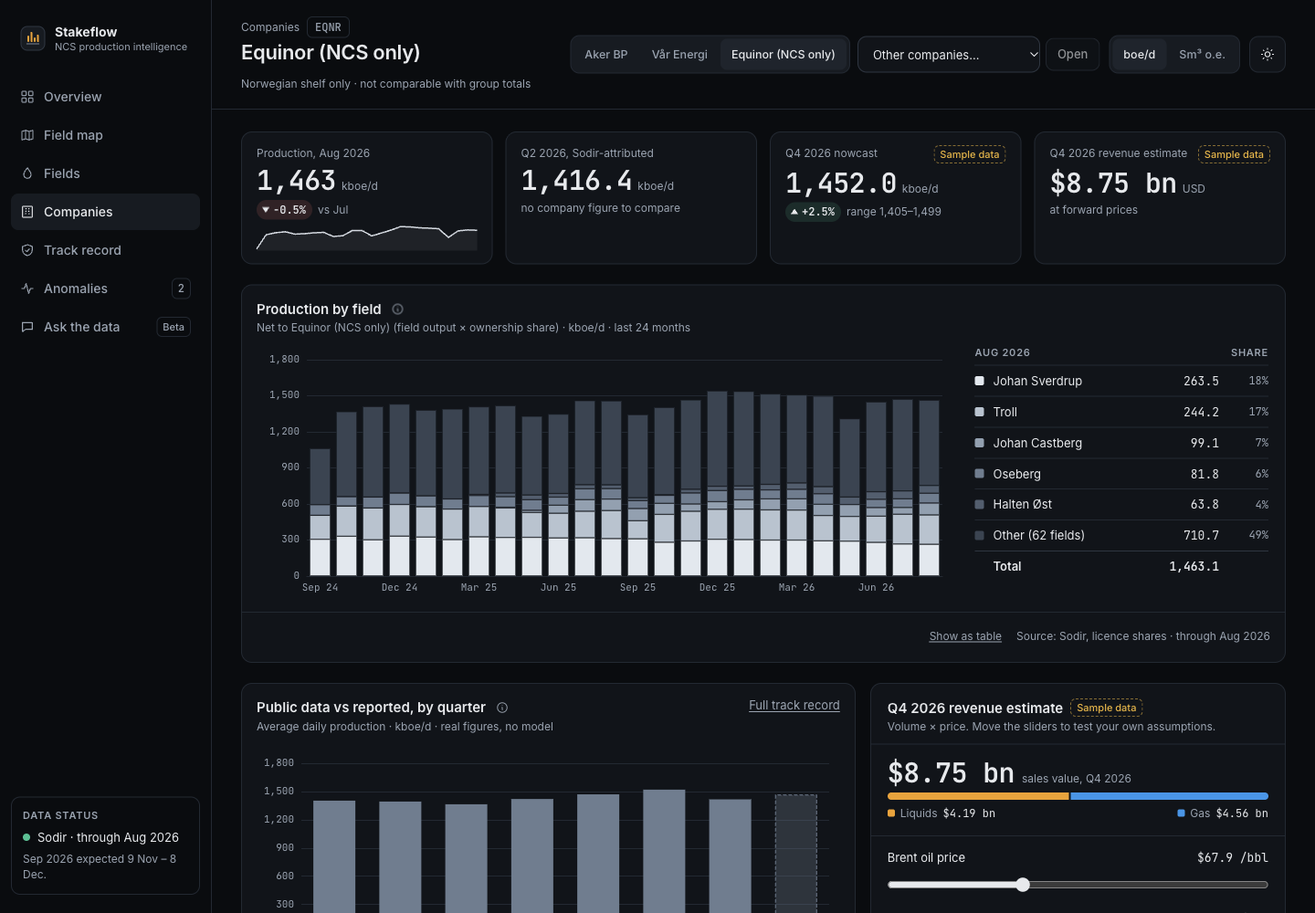
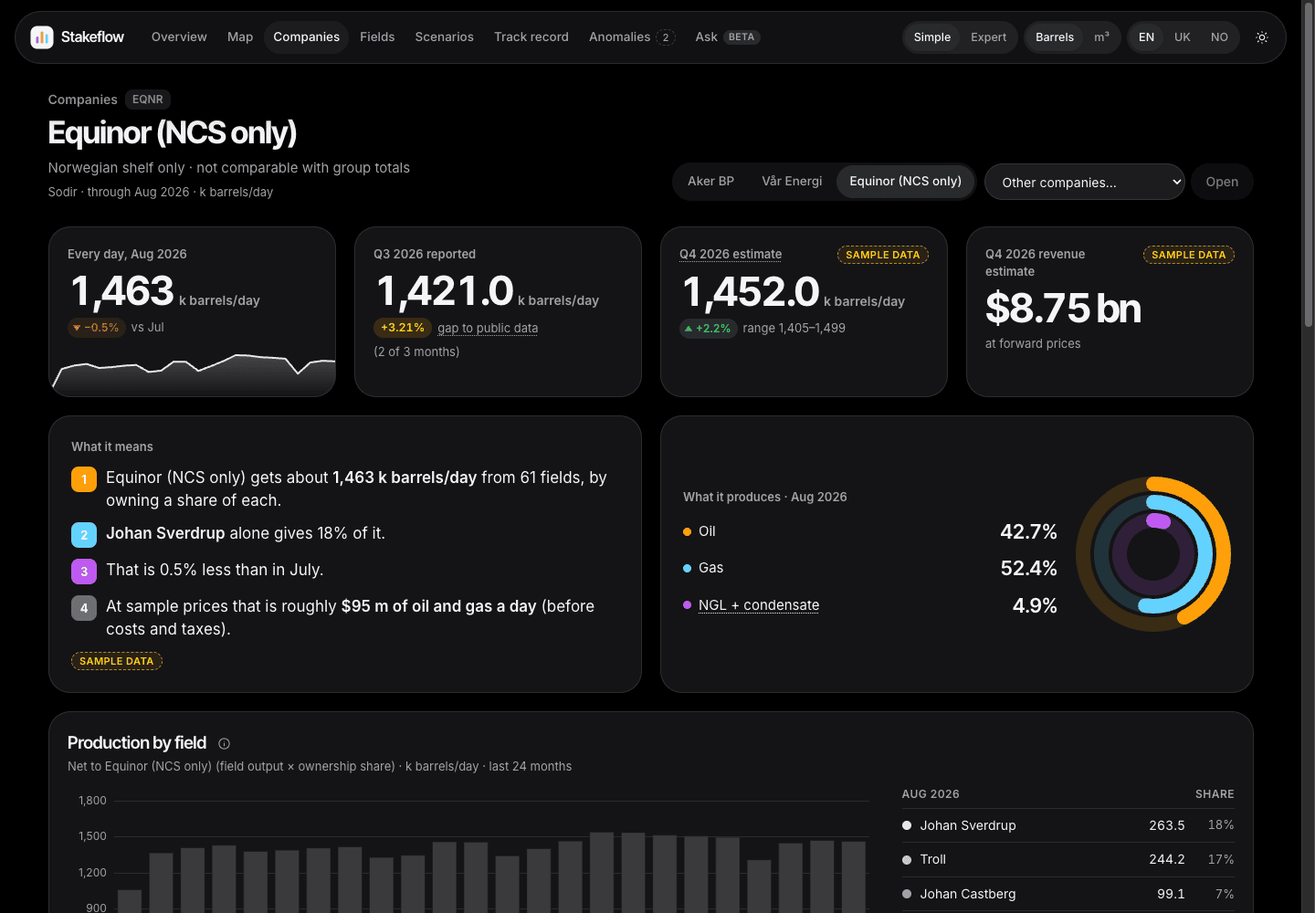
docs(frontend): document the redesign and retake every screenshot
Why: the README and screenshots described the old dashboard; the root README
embeds four of these images, so they keep their file names.

What changed:
- README: the design language and its three roles, tokens, motion rules,
  how i18n and Simple words work, the real vs sample table with the landing
  and scenarios, the scenario parameter contract, architecture, a11y checks.
- 31 screenshots from the live API (1440 × 1000 and 390 × 844, reduced
  motion), compressed with pngquant: every route in dark and light, phones,
  Ukrainian and Norwegian views and Expert mode.

diff --git a/frontend/README.md b/frontend/README.md
@@ -2,87 +2,165 @@
 
 The web app for Stakeflow: Norwegian Continental Shelf production per field and per company,
 from public Sodir data. It shows what each field produces, splits it by licence share into what
-each company owns, compares that with what the companies report, and (as a preview) how a
-quarterly nowcast and a revenue estimate will be scored.
+each company owns, compares that with what the companies report, and explains what it means to
+someone who has never looked at an oil field, in English, Ukrainian and Norwegian.
 
 React 18 + TypeScript (strict) + Vite, Tailwind, TanStack Query and Table, ECharts, MapLibre
-(`react-map-gl/maplibre`) on free OpenFreeMap tiles, Zustand for theme and unit. Built with pnpm.
+(`react-map-gl/maplibre`) on free OpenFreeMap tiles, Zustand for theme, unit, language and mode.
+Built with pnpm.
 
-![Overview, dark](docs/screenshots/overview-dark.png)
+![The landing page, dark](docs/screenshots/overview-dark.png)
+
+## Design language
+
+One design language, three roles, inspired by Apple's product pages:
+
+| Role        | Where                                                           | Feel                                                                                                       |
+| ----------- | --------------------------------------------------------------- | ---------------------------------------------------------------------------------------------------------- |
+| **Keynote** | the landing page `/`                                            | one idea per screen: a giant counted-up number, three facts, a company race, the honest record, a scenario |
+| **Bento**   | company, field, fields, scenarios, track record, anomalies, Ask | widgets on a grid: big numbers, rings, sparklines that draw, tables and charts in soft tiles               |
+| **Atlas**   | the map `/map`                                                  | a night sky of glowing fields over a real dark basemap, glass panels floating on it, a 24-month timeline   |
+
+- **Type.** Inter Tight (`@fontsource/inter-tight`, 600–800) for headings and big numbers with
+  tight tracking; Inter for text; tabular figures everywhere a number can change. JetBrains Mono
+  only for SQL.
+- **Materials.** Tiles with 24–32 px radii: a soft shadow in light, a hairline in dark. Glass
+  (`backdrop-filter: saturate(180%) blur(22px)`) for floating chrome: the top navigation, the
+  map panels, popovers, the phone sheet. Pills for every control.
+- **Colour tokens** (`src/index.css`, one class on `<html>`): dark is the default stage (`#000`,
+  tiles `#141416`), light is the bento look (`#f5f5f7`, white tiles). Products keep their hue in
+  both themes: oil `#ff9f0a`/`#ff9500`, gas `#64d2ff`/`#007aff`, NGL + condensate
+  `#bf5af2`/`#af52de` (dark/light), reserved for products only; fields in stacked company charts
+  use a neutral grey ramp. Text that carries a product or a direction uses the `-ink` variants,
+  darker in light mode, so it stays above 4.5:1 (e.g. oil text `#b25000` on white).
+- **Motion** (`src/hooks/useMotion.ts`, `index.css`): numbers count up, lines and rings draw
+  when they come into view, tiles enter with a springy stagger, link tiles lift on hover. Every
+  element is fully visible at rest: entrances start from a visible state, draw-on-view replays a
+  finished drawing, count-ups have a timer fallback, and `prefers-reduced-motion` shows the final
+  state at once.
+- `/dev/components` shows the kit (tokens, type, materials, motion, every component and state)
+  in both themes side by side.
+
+## Languages: English, Ukrainian, Norwegian (Bokmål)
+
+No i18n library: `src/i18n/` is a small typed dictionary module.
+
+- `en.ts` is the source; `uk.ts` and `nb.ts` are typed against its shape, so a missing or extra
+  key is a compile error. A test checks that all three have the same keys, the same
+  `{placeholders}` and `<b>` emphasis, and every plural form their language needs (Ukrainian
+  one/few/many via `Intl.PluralRules`).
+- `useI18n()` gives `m` (the dictionary), `t()` (placeholders), `plural()` and `v()` (Simple
+  words / Expert variants). `<Rich>` renders `<b>` emphasis without ever interpreting data as
+  markup.
+- Numbers, percentages, months and dates go through `Intl` in the active locale (`lib/format.ts`
+  follows the language store), so 1,463.5 becomes 1 463,5 in Norwegian and Ukrainian.
+- Language comes from `?lang=` (a shared link), then the reader's earlier choice
+  (localStorage), then the browser; `<html lang>` follows. Field and company names stay as they
+  are, except the scope label, which is translated and never shortened: "Equinor (NCS only)",
+  "Equinor (лише норвезький шельф)", "Equinor (kun norsk sokkel)".
+- Free text that comes from data (anomaly notes, the Ask preview's example answers, the scope
+  notes of non-focus companies) is English and marked `lang="en"` until the backend serves
+  translations.
+
+## Simple words and Expert
+
+A switch in the navigation; first-time visitors get **Simple words**.
+
+- Units read "k barrels/day" instead of "kboe/d" (and "million m³/month" for the Sm³ toggle).
+- "What it means" tiles on the landing, company and field pages, computed from real data: the
+  state's share in barrels and per cent, homes one year of gas could heat
+  (`bn m³ × 1e9 × 10.8 kWh ÷ 12,000 kWh per home`, with the assumption footnoted), how much a field
+  fell in a year and why fields decline, how long it has produced and how far below its plateau
+  it is, roughly what a company's oil and gas is worth a day at sample prices.
+- Glossary terms (dotted underline) open a short definition in both modes: barrels of oil
+  equivalent, licence share, the state's direct stake (Petoro/SDFI), NGL and condensate, trading
+  update, nowcast, plateau, decline, 80% range, R² and more.
+- **Expert** keeps the industry units and the dense layout without the explainer tiles.
 
 ## Real data and sample data
 
-The backend serves production, ownership and reported quarters today. Everything else comes
-from a deterministic mock layer and is marked with a dashed amber **Sample data** badge wherever
-it appears, so a sample number is never mistaken for a real one.
+The backend serves production, ownership, reported quarters and the shelf summary. Everything
+else comes from a deterministic mock layer and is marked with a dashed amber **Sample data**
+badge wherever it appears.
 
-| Screen                          | Real (live API)                                                                                                                                                   | Sample (badged)                                                                                                     |
-| ------------------------------- | ----------------------------------------------------------------------------------------------------------------------------------------------------------------- | ------------------------------------------------------------------------------------------------------------------- |
-| Overview `/`                    | Company production, deltas, product mix, the one-line "what moved" sentence, largest fields, Sodir vs reported gap                                                | Nowcast and range, Brent/TTF, recent anomalies, model error in the track-record teaser                              |
-| Field map `/map`                | Field centroids and outlines, production, oil share, owners, 36-month history, "Highlight owner"                                                                  | –                                                                                                                   |
-| Fields `/fields`                | Every field with latest production and change                                                                                                                     | –                                                                                                                   |
-| Field detail `/fields/:id`      | History by product, plateau, owners and ownership timeline, facts, monthly table and CSV                                                                          | Decline-curve forecast, model card, 12-month forecast KPI                                                           |
-| Company detail `/companies/:id` | Net production by field (day-weighted shares), latest month, last reported quarter and its Sodir gap, **Sodir-attributed vs reported by quarter**, legal entities | Quarter nowcast, nowcast-vs-reported chart, revenue estimate (prices and nowcast volume; the product split is real) |
-| Track record `/track-record`    | **Public data vs what the companies reported** (e.g. Aker BP Q2 2026: 380.8 attributed vs 383.6 reported kboe/d, −0.74%)                                          | Model summary, accuracy over time, prediction log and its CSV                                                       |
-| Anomalies `/anomalies`          | Field names, operators and owners                                                                                                                                 | Every anomaly, its numbers and the impact per company                                                               |
-| Ask `/ask` (beta)               | Table catalogue; the SQL shown runs as-is on the marts and the answers are its real output (data through Aug 2026)                                                | Pre-computed: only a few example questions are answered; anything else gets an honest "not yet"                     |
-
-The reconciliation is the honest track record today: it compares Sodir field data × licence
-shares with each company's own trading update, with no model in between. It always sits apart
-from the sample prediction log. Quarters still missing a Sodir month are listed as provisional
-and kept out of the average gap.
+| Screen                          | Real (live API)                                                                                                                                                                                         | Sample (badged)                                                                                                     |
+| ------------------------------- | ------------------------------------------------------------------------------------------------------------------------------------------------------------------------------------------------------- | ------------------------------------------------------------------------------------------------------------------- |
+| Landing `/`                     | Shelf total and its 24 months (`/summary`), state share, last year's gas, largest fields, the company race and what moved, how-it-works example, the reconciliation record                              | Scenario teaser, Brent/TTF, recent anomalies                                                                        |
+| Field map `/map`                | Field centroids and outlines, production, oil share, owners, 36-month history, "Highlight owner", the shelf timeline                                                                                    | –                                                                                                                   |
+| Fields `/fields`                | Every field with latest production and change                                                                                                                                                           | –                                                                                                                   |
+| Field detail `/fields/:id`      | History by product, plateau, owners and ownership timeline, facts, plain-words facts, monthly table and CSV                                                                                             | Decline-curve forecast, model card, 12-month forecast KPI                                                           |
+| Company detail `/companies/:id` | Net production by field (day-weighted shares), product rings, latest month, last reported quarter and its gap, **public data vs reported by quarter**, legal entities                                   | Quarter nowcast, nowcast-vs-reported chart, revenue estimate (prices and nowcast volume; the product split is real) |
+| Scenarios `/scenarios`          | –                                                                                                                                                                                                       | Share prices, the fitted model and its answer, the free-text parser (until the endpoints are wired)                 |
+| Track record `/track-record`    | **Public data vs what the companies reported** per company and quarter (e.g. 14 complete quarters each: 0.22% Equinor's Norway segment, 0.72% Aker BP, 3.8% Vår Energi, whose figures include fuel gas) | Model summary, accuracy over time, prediction log and its CSV                                                       |
+| Anomalies `/anomalies`          | Field names, operators and owners                                                                                                                                                                       | Every anomaly, its numbers and the impact per company                                                               |
+| Ask `/ask` (beta)               | Table catalogue; the SQL shown runs as-is on the marts and the answers are its real output                                                                                                              | Pre-computed: only a few example questions are answered                                                             |
 
 `VITE_USE_MOCKS=true` mocks everything (tests, CI, demos without a backend); the footer then
 says every number is sample data.
 
 ### Rules the UI keeps
 
-- **Equinor is always "Equinor (NCS only)"**, never shortened, truncated or hidden; company
-  names wrap instead of using `truncate`, because a tooltip does not work on touch screens.
-- **No share price prediction.** Outputs are production, a revenue estimate and forecast
-  accuracy.
-- **Nowcast framing:** forecasts are frozen at quarter end and scored against the company's
-  trading update (Vår Energi about T+12, Aker BP about T+14; Equinor with its quarterly report).
-  Lead days = report date − prediction time. See `docs/nowcast-feasibility.md`.
-- The revenue estimate is volume × price with the formula on screen. Gas is
-  Sm³ × 10.8 kWh/Sm³ × TTF (EUR/MWh) × EURUSD. It states that revenue follows volumes **sold**,
-  not produced (over/underlift), and that hedging, tariffs and inventory timing are excluded.
-- External links (Sodir FactPages, trading updates, commits) only render after
-  `safeExternalUrl()` accepts them: https and a short list of known hosts.
-- Oil, gas and NGL + condensate colours are reserved for those products; fields in stacked
-  charts use a neutral grey ramp.
+- **Equinor is always "Equinor (NCS only)"** (translated, never shortened, truncated or hidden);
+  company names wrap instead of truncating. Its share price in the scenario explorer is the
+  group's, and the page says so.
+- **No share price predictions.** The scenario explorer shows how a share price _might_ respond
+  to assumptions the reader picks, with the model's fit (R², window, observations), its
+  coefficients, an 80% range and a "Scenario, not a forecast · not investment advice" notice.
+  The AI step only turns free text into the five parameters; the model computes the numbers.
+- **Nowcast framing:** forecasts are frozen at quarter end and scored against the company's first
+  publication. See `docs/nowcast-feasibility.md`.
+- The revenue estimate is volume × price with the formula on screen, sold vs produced and the
+  exclusions spelled out.
+- External links render only after `safeExternalUrl()` accepts them.
+
+## Scenario contract
+
+The scenario explorer uses the backend's parameter contract, in camelCase in the frontend
+(`lib/scenario.ts` maps both ways and clamps):
+
+| Wire name               | Frontend              | Range       |
+| ----------------------- | --------------------- | ----------- |
+| `brent_change_pct`      | `brentChangePct`      | −90 … +300  |
+| `ttf_change_pct`        | `ttfChangePct`        | −90 … +300  |
+| `production_change_pct` | `productionChangePct` | −100 … +100 |
+| `eurusd_change_pct`     | `eurusdChangePct`     | −50 … +100  |
+| `horizon_months`        | `horizonMonths`       | 1 … 24      |
+
+`ExtrasApi` has `sharePrices(companyId)`, `scenarioModel(companyId)`,
+`runScenario(companyId, params)` and `parseScenario(text)`; types in `api/types.scenario.ts`,
+sample implementations in `api/mock/scenario.ts`. A 503 from `parseScenario` is shown as "AI is
+not configured on this server" with the ready-made scenarios next to it.
 
 ## Architecture
 
 ```
 src/
   api/        CoreApi (live API or mocks) and ExtrasApi (always mocks), TanStack Query hooks
-    http.ts     fetch + mapping from the generated OpenAPI types into domain models
+    summary.ts  GET /summary (kept beside http.ts until the data-mode work lands)
     mock/       deterministic sample data behind the same interfaces
-    hooks.ts    the only way components read data; query keys shared across screens
-  lib/        pure, tested helpers: units, dates, formatting, ownership, revenue, scoring,
-              map scales, CSV, SQL tokens
-  components/ kit (KpiCard, ChartCard, DataTable, MapSidePanel, chips, badges) and chart
-              option builders in components/charts
+  i18n/       en (source), uk, nb dictionaries, useI18n, <Rich>
+  lib/        pure, tested helpers: units, Intl formatting, dates, plain-language facts,
+              scenario contract and model, revenue, scoring, map scales, CSV, SQL tokens
+  hooks/      units, motion (count-up, draw-on-view), company names, URL sync
+  components/ kit (KpiCard, ChartCard, Rings, Sparkline, Term, Sheet, MapSidePanel…) and
+              chart option builders in components/charts
   pages/      one file per route, with its pieces in a folder of the same name
-  stores/     theme and unit (Zustand); the unit also lives in the URL (?u=sm3)
+  stores/     theme, unit, language and mode (Zustand)
 ```
 
-- **Two halves of the data layer.** `CoreApi` is what the backend serves; `ExtrasApi` is what it
-  does not serve yet and is always the mock layer. Swapping a mock for a real endpoint is a
-  change in `src/api/` only. Sample-ness is decided by `isSample()` in `api/mode.ts`.
 - **Units in one place.** Volumes are stored as Sm³ o.e. per month (Sodir native) and converted
-  only in `lib/units.ts`, with the real number of days in each month. Every number on screen
-  follows the boe/d ↔ Sm³ toggle.
-- **Charts follow the theme.** ECharts draws on a canvas, so `useChartTheme()` reads the CSS
-  variables at runtime and charts re-render on theme change. Each chart has a `role="img"`
-  summary and a table alternative.
-- **Map.** OpenFreeMap `dark` and `positron` styles (no API key) follow the theme. Circles sit at
-  field centroids with area ∝ production and colour = oil share (Lab interpolation, the same in
-  the legend and the list). `lib/mapScale.ts` holds those encodings so map and legend cannot
-  drift apart. The "Fields by production" list is the keyboard and screen-reader way in.
-- **Shareable state in the URL**: unit (`?u=`), selected map field (`?field=`), track-record
-  company (`?co=`).
+  only in `lib/units.ts`, with the real number of days in each month.
+- **Charts follow the theme and the language.** `useChartTheme()` reads the CSS variables at
+  runtime; chart builders take the dictionary for series names, tooltips and month labels.
+  Each chart has a `role="img"` summary and a table alternative.
+- **Map.** OpenFreeMap `dark` (deepened to a night-sky palette at runtime) and `positron`. Each
+  field is two circle layers, a blurred halo under a crisp core, radius ∝ √production, colour =
+  oil share; localized sea names; `lib/mapScale.ts` keeps map and legend in step. The
+  "Fields by production" list is the keyboard and screen-reader way in; the field card closes
+  on Escape and returns focus; on phones it becomes a bottom sheet. The timeline scrubs the
+  shelf total; the field circles stay at the latest month, and the panel says so.
+- **Shareable state in the URL**: unit (`?u=`), language (`?lang=`), map field (`?field=`),
+  track-record company (`?co=`), scenario company and preset (`?co=`, `?preset=`).
 
 ## Run it
 
@@ -91,8 +169,7 @@ pnpm install
 pnpm dev                       # http://localhost:5173, proxies /api to http://localhost:8000
 ```
 
-The API comes from `make up` at the repo root (which also serves this app on
-http://localhost:3002). `make web` runs the dev server for you.
+The API comes from `make up` at the repo root. `make web` runs the dev server for you.
 
 | Variable            | Default                 | What it does                                            |
 | ------------------- | ----------------------- | ------------------------------------------------------- |
@@ -100,56 +177,66 @@ http://localhost:3002). `make web` runs the dev server for you.
 | `VITE_FEATURE_ASK`  | unset                   | `true` shows the Ask page and its nav item              |
 | `STAKEFLOW_API_URL` | `http://localhost:8000` | Where the dev proxy sends `/api`                        |
 
-Copy `.env.example` to `.env` to set them.
-
 ```bash
 pnpm typecheck && pnpm lint && pnpm format:check && pnpm test && pnpm build
 pnpm gen:api                   # regenerate src/api/schema.gen.ts from ../api/openapi.json
 ```
 
-Tests run against the mock layer (never the network) with Vitest and Testing Library; the map
-canvas and ECharts are replaced by their accessible summaries in jsdom.
+Tests run against the mock layer (never the network) with reduced motion; they cover the
+dictionaries (keys, placeholders, plural forms), language detection, Simple words vs Expert,
+the scenario contract (ranges, clamping, wire names, the 503 path), the motion fallbacks and
+every screen's main flows.
 
 ## Accessibility and responsiveness
 
-- Semantic landmarks and headings, real links and buttons, a skip link, visible focus rings,
-  `aria-pressed` on toggles, real tabs (arrow keys) on Ask, `aria-sort` on sortable tables.
-- The map side panel announces changes, closes on Escape and returns focus to the row or map
-  that opened it; on phones it becomes a bottom sheet.
-- Checked with axe-core (WCAG 2.1 A/AA and best practices) on every route in both themes at
-  1440 px and at 390 px: no violations. Pill text uses darker "ink" tokens in light mode to stay
-  above 4.5:1 on its tint.
-- Every route works at 390 px without horizontal page scrolling; wide tables scroll inside their
-  card. Touch targets are 44 px below the 1024 px breakpoint.
+- Semantic landmarks and headings, real links and buttons, a skip link, a visible focus ring,
+  `aria-pressed` on toggles, real tabs on Ask, `aria-sort` on tables, a focus-trapped sheet for
+  "More" on phones, screen-reader copies of every counted-up number.
+- Checked with axe-core (WCAG 2.1 A/AA and best practices) in both themes at 1440 px and 390 px:
+  no violations. No route scrolls horizontally at 390 px; touch targets are 44 px on phones
+  (glossary terms inside sentences are exempt as inline text).
 
 ## Screenshots
 
-All taken from the live API at 1440 × 1000 (desktop) and 390 × 844 (phone).
+Taken from the live API at 1440 × 1000 and 390 × 844 with reduced motion.
 
 |                                    | Dark                                                                                            | Light                                                                                             |
 | ---------------------------------- | ----------------------------------------------------------------------------------------------- | ------------------------------------------------------------------------------------------------- |
-| Overview                           | ![Overview, dark theme](docs/screenshots/overview-dark.png)                                     | ![Overview, light theme](docs/screenshots/overview-light.png)                                     |
-| Field map                          | ![Field map, dark theme](docs/screenshots/map-dark.png)                                         | ![Field map, light theme](docs/screenshots/map-light.png)                                         |
-| Fields                             | ![Fields list, dark theme](docs/screenshots/fields-dark.png)                                    | ![Fields list, light theme](docs/screenshots/fields-light.png)                                    |
-| Field detail (Johan Sverdrup)      | ![Field detail for Johan Sverdrup, dark theme](docs/screenshots/field-johan-sverdrup-dark.png)  | ![Field detail for Johan Sverdrup, light theme](docs/screenshots/field-johan-sverdrup-light.png)  |
+| Landing (keynote)                  | ![Landing, dark theme](docs/screenshots/overview-dark.png)                                      | ![Landing, light theme](docs/screenshots/overview-light.png)                                      |
+| Field map (atlas)                  | ![Field map, dark theme](docs/screenshots/map-dark.png)                                         | ![Field map, light theme](docs/screenshots/map-light.png)                                         |
 | Company detail (Aker BP)           | ![Company detail for Aker BP, dark theme](docs/screenshots/company-aker-bp-dark.png)            | ![Company detail for Aker BP, light theme](docs/screenshots/company-aker-bp-light.png)            |
 | Company detail (Equinor, NCS only) | ![Company detail for Equinor (NCS only), dark theme](docs/screenshots/company-equinor-dark.png) | ![Company detail for Equinor (NCS only), light theme](docs/screenshots/company-equinor-light.png) |
+| Field detail (Johan Sverdrup)      | ![Field detail for Johan Sverdrup, dark theme](docs/screenshots/field-johan-sverdrup-dark.png)  | ![Field detail for Johan Sverdrup, light theme](docs/screenshots/field-johan-sverdrup-light.png)  |
+| Scenarios                          | ![Scenario explorer, dark theme](docs/screenshots/scenarios-dark.png)                           | ![Scenario explorer, light theme](docs/screenshots/scenarios-light.png)                           |
 | Track record                       | ![Track record, dark theme](docs/screenshots/track-record-dark.png)                             | ![Track record, light theme](docs/screenshots/track-record-light.png)                             |
+| Fields                             | ![Fields list, dark theme](docs/screenshots/fields-dark.png)                                    | ![Fields list, light theme](docs/screenshots/fields-light.png)                                    |
 | Anomalies                          | ![Anomaly feed, dark theme](docs/screenshots/anomalies-dark.png)                                | ![Anomaly feed, light theme](docs/screenshots/anomalies-light.png)                                |
 | Ask (beta)                         | ![Ask the data, dark theme](docs/screenshots/ask-dark.png)                                      | ![Ask the data, light theme](docs/screenshots/ask-light.png)                                      |
 
-| Overview                                                     | Field detail                                                                     | Company detail                                                                        | Map                                                      | Map, field picked                                                                                           |
-| ------------------------------------------------------------ | -------------------------------------------------------------------------------- | ------------------------------------------------------------------------------------- | -------------------------------------------------------- | ----------------------------------------------------------------------------------------------------------- |
-| ![Overview on a phone](docs/screenshots/overview-mobile.png) | ![Field detail for Johan Sverdrup on a phone](docs/screenshots/field-mobile.png) | ![Company detail for Aker BP on a phone](docs/screenshots/company-aker-bp-mobile.png) | ![Field map on a phone](docs/screenshots/map-mobile.png) | ![Field map on a phone with Johan Sverdrup open in the bottom sheet](docs/screenshots/map-mobile-sheet.png) |
+In other languages and in Expert mode:
+
+| Ukrainian                                                                                 | Norwegian                                                                    | Expert mode                                                                                                |
+| ----------------------------------------------------------------------------------------- | ---------------------------------------------------------------------------- | ---------------------------------------------------------------------------------------------------------- |
+| ![Landing in Ukrainian, dark theme](docs/screenshots/overview-uk-dark.png)                | ![Landing in Norwegian, light theme](docs/screenshots/overview-nb-light.png) | ![Company detail for Aker BP in Expert mode, dark theme](docs/screenshots/company-aker-bp-expert-dark.png) |
+| ![Company detail for Equinor in Ukrainian](docs/screenshots/company-equinor-uk-light.png) | ![Scenario explorer in Norwegian](docs/screenshots/scenarios-nb-dark.png)    |                                                                                                            |
+
+On a phone:
+
+| Landing                                                     | Company detail                                                                        | Field detail                                                                     | Scenarios                                                              | Map                                                      | Map, field picked                                                                                           |
+| ----------------------------------------------------------- | ------------------------------------------------------------------------------------- | -------------------------------------------------------------------------------- | ---------------------------------------------------------------------- | -------------------------------------------------------- | ----------------------------------------------------------------------------------------------------------- |
+| ![Landing on a phone](docs/screenshots/overview-mobile.png) | ![Company detail for Aker BP on a phone](docs/screenshots/company-aker-bp-mobile.png) | ![Field detail for Johan Sverdrup on a phone](docs/screenshots/field-mobile.png) | ![Scenario explorer on a phone](docs/screenshots/scenarios-mobile.png) | ![Field map on a phone](docs/screenshots/map-mobile.png) | ![Field map on a phone with Johan Sverdrup open in the bottom sheet](docs/screenshots/map-mobile-sheet.png) |
 
 ## Known limits
 
-- Nowcasts, the prediction log, forecasts, anomalies, prices and Ask are sample data until the
-  backend serves them. The prediction log has no commit links yet (`commitUrl` is null).
-- Anomaly notes and "Mark explained" live in the browser tab only.
-- Ask answers a handful of example questions; edited SQL cannot run yet.
-- The basemap needs network access to `tiles.openfreemap.org`; without it the field list and
-  side panel still work.
+- Nowcasts, the prediction log, forecasts, anomalies, Brent/TTF, share prices, the scenario
+  model and Ask are sample data until the backend serves them.
+- `/summary` is fetched by `api/summary.ts` with plain `fetch`; it does not follow a static data
+  mode yet.
+- Anomaly notes, the Ask examples and non-focus companies' scope notes are English in every
+  language (marked `lang="en"`).
+- The map circles always show the latest month; the timeline replays the shelf total only.
+- The basemap needs network access to `tiles.openfreemap.org`; without it the field list, the
+  field card and the timeline still work.
 
 Not investment advice. Production and licence data: Norwegian Offshore Directorate (Sodir),
 under the Norwegian Licence for Open Government Data (NLOD). Basemap © OpenFreeMap,
